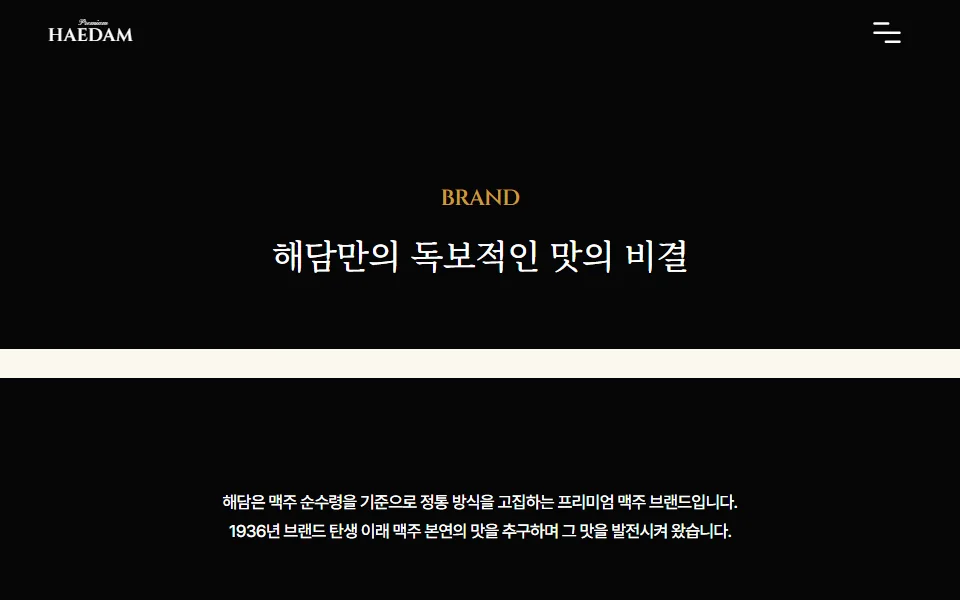
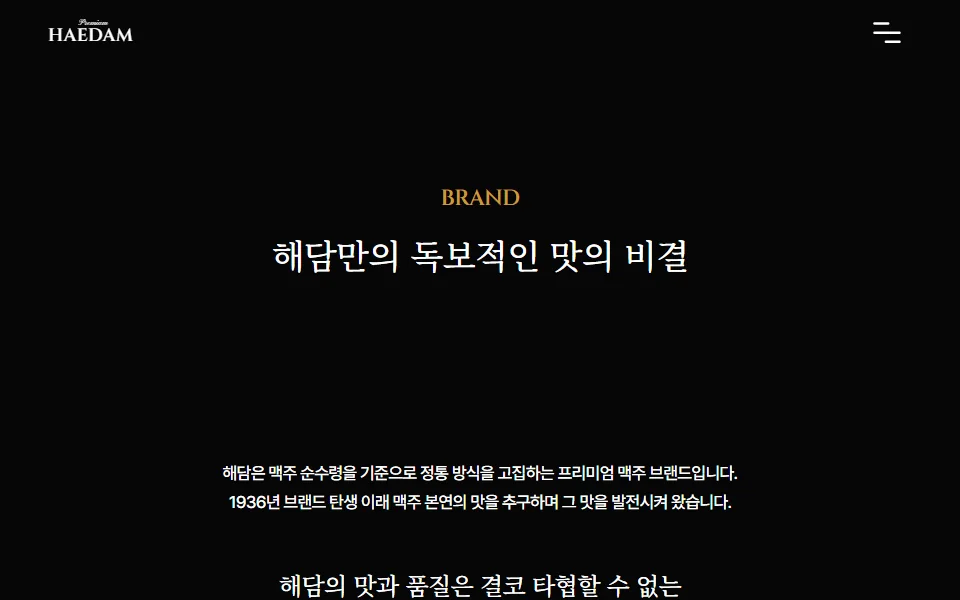
brew-a 실사 반영 보정 — 잔 핫스팟·지도 핀 위치, 맛의비결 크림 띠 제거
- 맛의 비결: page-lead 아래 29px 이 크림색으로 비치던 것을 lead 패딩으로 바꿔 제거
- 잔의 비밀 다섯 지점을 새 잔 사진에 맞춰 재배치(입구·거품선·로고·측벽·바닥),
  원 반지름 13.22%→9%, 밝은 베일 대신 어두운 베일로 바꿔 스포트라이트가 보이게
- 매장 지도 핀 7개를 검색 패널에 가리지 않는 오른쪽 지도 위로 이동

Changed region(s): [[0.2188, 0.75, 0.7812, 0.9], [0.0, 0.57, 1.0, 0.63], [0.2812, 0.96, 0.7188, 1.0]]

diff --git a/public/templates/brew-a/taste.html b/public/templates/brew-a/taste.html
@@ -18,7 +18,9 @@
 
 /* ══ 맛의 비결 ══ */
 /* 들머리 — 3600 핀 구간, 문장이 한 줄씩 떠오른다 */
-.tintro{position:relative;margin-top:29px;height:3600px;background:var(--dark-bg)}
+/* 레퍼런스는 page-lead 와 들머리 사이 29px 이 같은 검은 바탕 — 여백이 아니라 lead 아래쪽 패딩으로 준다 */
+.lead--taste{padding-bottom:149px}
+.tintro{position:relative;height:3600px;background:var(--dark-bg)}
 .tintro__stage{position:sticky;top:0;display:flex;flex-direction:column;align-items:center;
   justify-content:center;overflow:hidden;height:100vh;color:#fff;text-align:center}
 .tintro__bg{position:absolute;inset:0;opacity:0;transition:opacity 1.2s ease}
@@ -77,11 +79,11 @@
 .tsec__glass{position:relative;width:1280px;max-width:88%;height:612px;overflow:hidden}
 .tsec__glass img{display:block;width:100%;height:100%;object-fit:cover;
   transform:scale(1);transition:transform .6s ease}
-.tsec__mask{position:absolute;inset:0;background:rgba(252,248,239,.72);
-  -webkit-mask-image:radial-gradient(circle var(--r,13.22%) at var(--cx,36.65%) var(--cy,34.24%),transparent 98%,#000 100%);
-  mask-image:radial-gradient(circle var(--r,13.22%) at var(--cx,36.65%) var(--cy,34.24%),transparent 98%,#000 100%);
+.tsec__mask{position:absolute;inset:0;background:rgba(23,32,26,.42);
+  -webkit-mask-image:radial-gradient(circle var(--r,9%) at var(--cx,50%) var(--cy,17%),transparent 96%,#000 100%);
+  mask-image:radial-gradient(circle var(--r,9%) at var(--cx,50%) var(--cy,17%),transparent 96%,#000 100%);
   transition:-webkit-mask-image .5s ease,mask-image .5s ease}
-.tsec__ring{position:absolute;width:26.44%;aspect-ratio:1;border:1px solid rgba(27,58,43,.5);
+.tsec__ring{position:absolute;width:18%;aspect-ratio:1;border:1px solid rgba(255,255,255,.55);
   border-radius:50%;transform:translate(-50%,-50%);transition:left .5s ease,top .5s ease}
 .tsec__pin{position:absolute;z-index:3;display:flex;align-items:center;justify-content:center;
   width:28px;height:28px;font-size:1.4rem;font-weight:700;color:#fff;background:var(--gold);
@@ -117,6 +119,7 @@
   background:var(--gold);border-radius:6px}
 
 @media screen and (max-width:1024px){
+  .lead--taste{padding-bottom:70px}
   .tintro{height:auto}
   .tintro__stage{position:static;height:auto;padding:110px 0}
   .tintro__h{margin-top:50px;font-size:2.4rem}
@@ -181,7 +184,7 @@
 <div class="site-nav__dim" hidden></div>
 <main id="content" class="main-sub">
 
-<div class="lead lead--dark" data-head-theme="dark">
+<div class="lead lead--dark lead--taste" data-head-theme="dark">
 <div class="lead__wrap">
 <span class="lead__badge">BRAND</span>
 <h1 class="lead__h">해담만의 독보적인 맛의 비결</h1>
@@ -259,8 +262,8 @@
 <div class="tsec__glass">
 <img src="./assets/taste-glass.jpg" alt="해담 전용 맥주잔">
 <div class="tsec__mask"></div>
-<div class="tsec__ring" style="left:36.65%;top:34.24%"></div>
-<span class="tsec__pin" data-pin="0" style="left:36.65%;top:34.24%">1</span><span class="tsec__pin" data-pin="1" style="left:50.0%;top:50.0%">2</span><span class="tsec__pin" data-pin="2" style="left:50.0%;top:51.5%">3</span><span class="tsec__pin" data-pin="3" style="left:36.0%;top:60.5%">4</span><span class="tsec__pin" data-pin="4" style="left:40.0%;top:70.1%">5</span>
+<div class="tsec__ring" style="left:50%;top:17%"></div>
+<span class="tsec__pin" data-pin="0" style="left:50.0%;top:17.0%">1</span><span class="tsec__pin" data-pin="1" style="left:50.0%;top:28.0%">2</span><span class="tsec__pin" data-pin="2" style="left:50.0%;top:36.0%">3</span><span class="tsec__pin" data-pin="3" style="left:56.5%;top:56.0%">4</span><span class="tsec__pin" data-pin="4" style="left:50.0%;top:80.0%">5</span>
 <div class="tsec__card" data-card="0">
 <h3 class="tsec__card-h"><span class="tsec__card-n">1</span>맥주잔 입구</h3>
 <p class="tsec__card-t">맥주의 온도와 향이 흩어지지 않도록 입구를 3mm 좁혔습니다. 코끝에 향이 먼저 닿습니다.</p></div><div class="tsec__card" data-card="1">
@@ -485,7 +488,7 @@
     var cx=parseFloat(el.style.left), cy=parseFloat(el.style.top);
     mask.style.setProperty('--cx',cx+'%'); mask.style.setProperty('--cy',cy+'%');
     ring.style.left=cx+'%'; ring.style.top=cy+'%';
-    img.style.transform='scale('+(i>=1&&i<=2?1.3:1)+')';
+    img.style.transform='scale('+(i>=1&&i<=2?1.15:1)+')';
   }
   addEventListener('scroll',tick,{passive:true}); addEventListener('resize',tick); tick();
 })();
